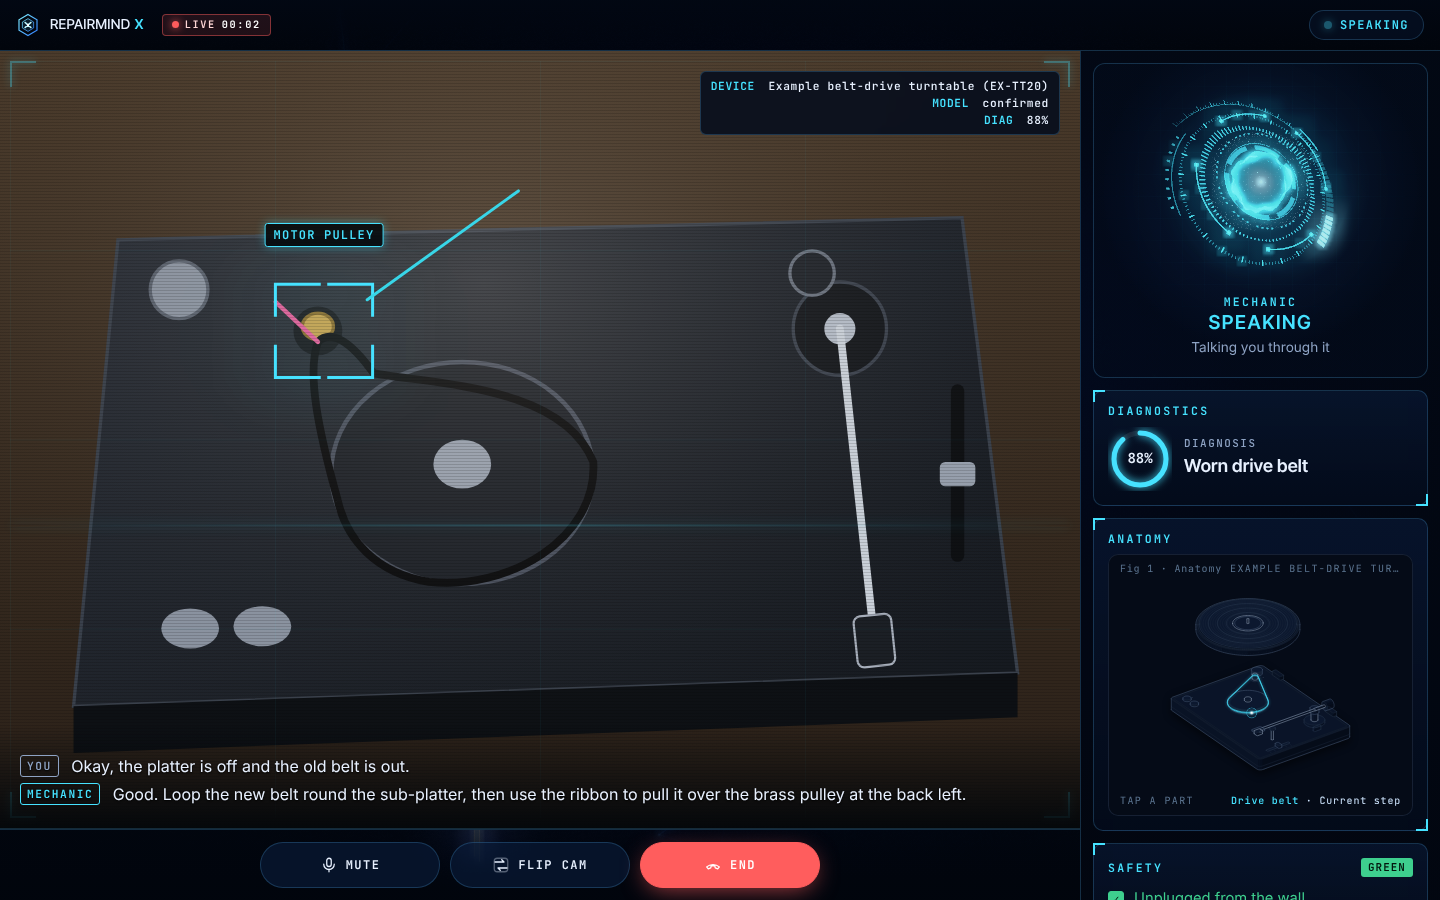
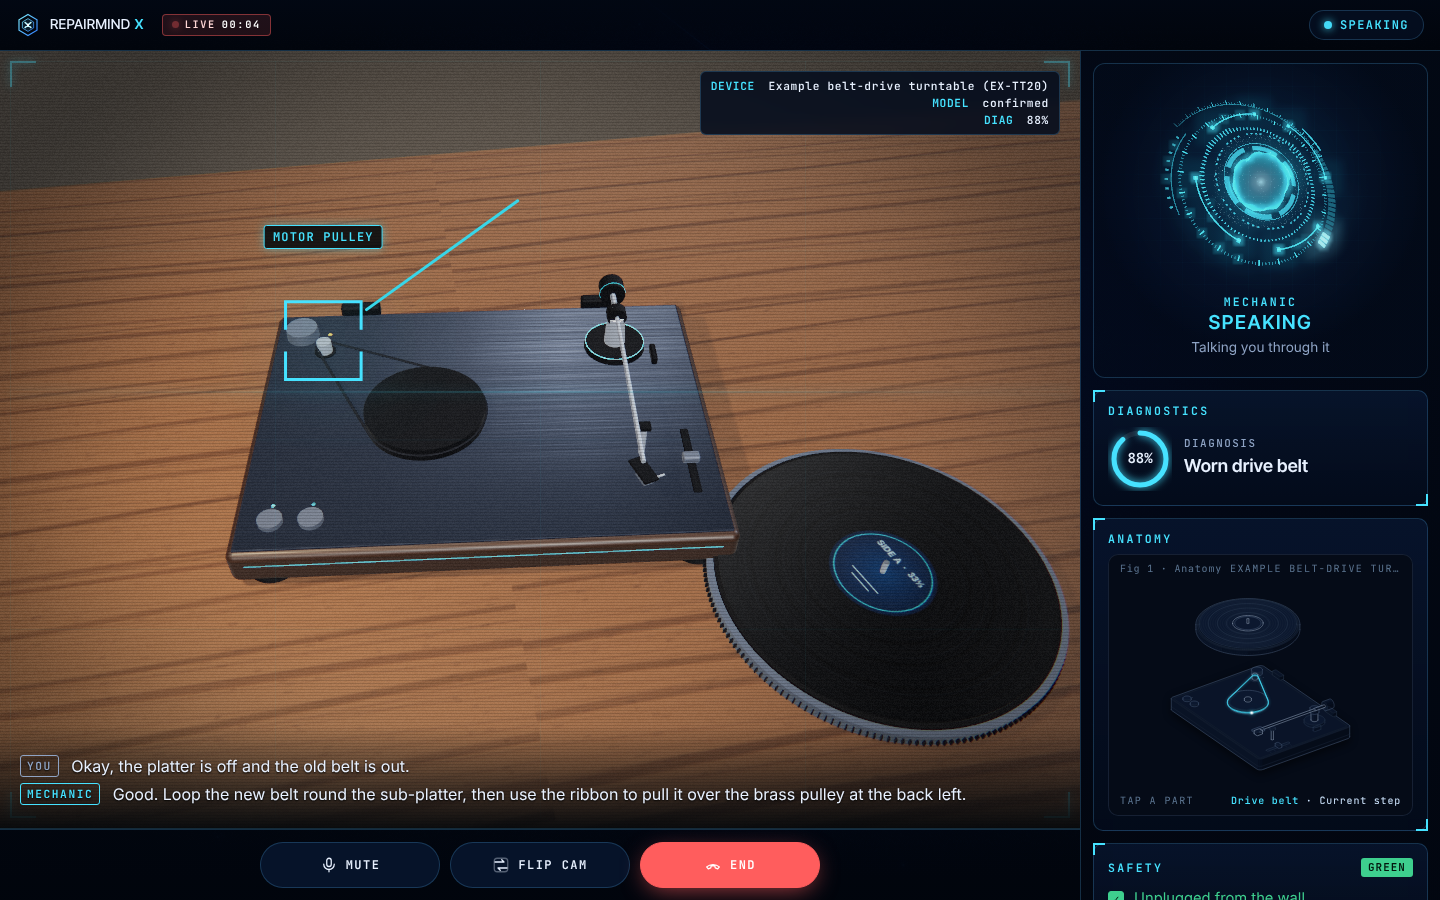
Show the call screen as a realistic 3D camera view
Replace the flat drawing on the #demo call screen with the 3D record player on an
oak desk under a warm lamp, with soft shadows, a walnut plinth, the platter lifted
off beside it and a handheld camera drift. The AR marker now follows the motor
pulley's projected position every frame.

Claude-Session: https://claude.ai/code/session_01XgJJfW6a7WrSLbWpMDcCof

diff --git a/web/src/fx/showroom/CameraView.ts b/web/src/fx/showroom/CameraView.ts
@@ -1,0 +1,160 @@
+import * as THREE from "three";
+import { RoomEnvironment } from "three/examples/jsm/environments/RoomEnvironment.js";
+import { createStage, perfGuard, type Stage } from "../gl/core";
+import { buildDeck, type DeckModel } from "./turntable";
+import { makeFxUniforms } from "./fx";
+
+/**
+ * A stand-in for the phone camera on the #demo call screen: the same record player as the start page,
+ * rendered as a real scene rather than a drawing. It sits on an oak desk under a warm lamp, mid-repair,
+ * with the platter lifted off and set down beside it so the belt and motor pulley show. The camera is
+ * handheld: it breathes and drifts a little, with a touch of sensor noise. The motor pulley's position on
+ * screen is reported every frame so the AR marker can follow it.
+ */
+
+function woodTexture(base: string, dark: string, w = 1024, h = 1024, rings = 46) {
+  const c = document.createElement("canvas");
+  c.width = w;
+  c.height = h;
+  const g = c.getContext("2d")!;
+  g.fillStyle = base;
+  g.fillRect(0, 0, w, h);
+  // long grain lines that wander a little, with darker latewood bands
+  for (let i = 0; i < rings * 6; i++) {
+    const y0 = (i / (rings * 6)) * h + (Math.random() - 0.5) * 6;
+    const band = i % 6 === 0;
+    g.strokeStyle = band ? dark : `rgba(0,0,0,${0.03 + Math.random() * 0.05})`;
+    g.globalAlpha = band ? 0.22 + Math.random() * 0.18 : 1;
+    g.lineWidth = band ? 2 + Math.random() * 3 : 1;
+    g.beginPath();
+    for (let x = 0; x <= w; x += 16) {
+      const y = y0 + Math.sin(x * 0.004 + i * 0.7) * 6 + Math.sin(x * 0.013 + i) * 2;
+      if (x === 0) g.moveTo(x, y);
+      else g.lineTo(x, y);
+    }
+    g.stroke();
+  }
+  g.globalAlpha = 1;
+  // pores
+  for (let i = 0; i < 9000; i++) {
+    g.fillStyle = `rgba(0,0,0,${Math.random() * 0.12})`;
+    g.fillRect(Math.random() * w, Math.random() * h, 2 + Math.random() * 4, 1);
+  }
+  const t = new THREE.CanvasTexture(c);
+  t.colorSpace = THREE.SRGBColorSpace;
+  t.wrapS = t.wrapT = THREE.RepeatWrapping;
+  t.anisotropy = 8;
+  return t;
+}
+
+export class CameraView {
+  private stage: Stage;
+  private deck: DeckModel;
+  private raf = 0;
+  private t0 = performance.now();
+  private v = new THREE.Vector3();
+  private guard = perfGuard(22, () => this.stage.setPixelRatio(1));
+  private ro: ResizeObserver;
+
+  constructor(private canvas: HTMLCanvasElement, private onPin?: (x: number, y: number) => void) {
+    this.stage = createStage({
+      canvas,
+      fov: 46,
+      pixelRatio: Math.min(window.devicePixelRatio || 1, 1.5),
+      bloom: { strength: 0.18, radius: 0.4, threshold: 0.92 },
+      grade: { vignette: 0.35, grain: 0.045, aberration: 0.0004, lift: [0.004, 0.004, 0.006] },
+    });
+    const { renderer, scene } = this.stage;
+    renderer.toneMapping = THREE.ACESFilmicToneMapping;
+    renderer.toneMappingExposure = 1.0;
+    renderer.shadowMap.enabled = true;
+    renderer.shadowMap.type = THREE.PCFSoftShadowMap;
+    renderer.setClearColor(0x16130f, 1);
+
+    const pmrem = new THREE.PMREMGenerator(renderer);
+    scene.environment = pmrem.fromScene(new RoomEnvironment(), 0.03).texture;
+    scene.environmentIntensity = 0.55;
+    pmrem.dispose();
+
+    // a warm desk lamp up and to the left, a cool window fill from the right, and a soft bounce
+    const lamp = new THREE.SpotLight(0xffe2bf, 60, 30, 0.8, 0.7, 1.6);
+    lamp.position.set(-4.5, 7, 3);
+    lamp.target.position.set(0, 0, 0);
+    lamp.castShadow = true;
+    lamp.shadow.mapSize.set(2048, 2048);
+    lamp.shadow.bias = -0.0004;
+    lamp.shadow.radius = 4;
+    const win = new THREE.DirectionalLight(0xbfd6ff, 0.6);
+    win.position.set(8, 4, -2);
+    scene.add(lamp, lamp.target, win, new THREE.HemisphereLight(0xfff1de, 0x2a1f14, 0.35));
+
+    // oak desk and a plain wall behind it
+    const oak = woodTexture("#7a5233", "#3a2210");
+    oak.repeat.set(2, 1);
+    const desk = new THREE.Mesh(
+      new THREE.PlaneGeometry(30, 18),
+      new THREE.MeshPhysicalMaterial({ map: oak, roughness: 0.55, clearcoat: 0.3, clearcoatRoughness: 0.4 }),
+    );
+    desk.rotation.x = -Math.PI / 2;
+    desk.receiveShadow = true;
+    scene.add(desk);
+    const wall = new THREE.Mesh(new THREE.PlaneGeometry(40, 16), new THREE.MeshStandardMaterial({ color: 0x5b5650, roughness: 0.95 }));
+    wall.position.set(0, 8, -6);
+    scene.add(wall);
+
+    // the record player, mid-repair: platter lifted off and set down on the desk beside it
+    this.deck = buildDeck(makeFxUniforms());
+    const walnut = woodTexture("#3b2414", "#170c05");
+    this.deck.plinth.material = new THREE.MeshPhysicalMaterial({ map: walnut, roughness: 0.45, clearcoat: 0.6, clearcoatRoughness: 0.25 });
+    this.deck.accents.forEach((m) => m.color.multiplyScalar(1.4));
+    this.deck.root.traverse((o) => {
+      if ((o as THREE.Mesh).isMesh) {
+        o.castShadow = true;
+        o.receiveShadow = true;
+      }
+    });
+    this.deck.platter.position.set(3.4, 0.09, 1.9);
+    this.deck.platter.rotation.set(0, 0.4, 0);
+    this.deck.root.rotation.y = -0.12;
+    scene.add(this.deck.root);
+
+    this.ro = new ResizeObserver(() => this.resize());
+    this.ro.observe(canvas);
+    this.resize();
+    this.loop = this.loop.bind(this);
+    this.raf = requestAnimationFrame(this.loop);
+  }
+
+  private resize() {
+    const w = this.canvas.clientWidth || 640, h = this.canvas.clientHeight || 480;
+    this.stage.resize(w, h);
+  }
+
+  private loop(now: number) {
+    this.raf = requestAnimationFrame(this.loop);
+    this.guard(now);
+    const t = (now - this.t0) / 1000;
+    const cam = this.stage.camera;
+    // handheld: a slow drift plus a small, uneven breathing sway
+    const sway = (a: number, b: number) => Math.sin(t * a) * 0.6 + Math.sin(t * b + 1.3) * 0.4;
+    const portrait = this.canvas.clientHeight > this.canvas.clientWidth;
+    const d = portrait ? 1.35 : 1;
+    cam.position.set(-0.6 + sway(0.31, 0.83) * 0.06, 6.6 * d + sway(0.27, 0.71) * 0.05, 6.4 * d + sway(0.23, 0.61) * 0.05);
+    cam.lookAt(0.5 + sway(0.4, 1.1) * 0.03, 0.3, 0.3 + sway(0.37, 0.9) * 0.03);
+    cam.rotateZ(sway(0.2, 0.55) * 0.008);
+    this.stage.render(t);
+
+    if (this.onPin) {
+      this.deck.anchors.pulley.getWorldPosition(this.v);
+      this.v.project(cam);
+      this.onPin(this.v.x * 0.5 + 0.5, -this.v.y * 0.5 + 0.5);
+    }
+  }
+
+  dispose() {
+    cancelAnimationFrame(this.raf);
+    this.ro.disconnect();
+    this.stage.scene.environment?.dispose();
+    this.stage.dispose();
+  }
+}

diff --git a/web/src/Demo.tsx b/web/src/Demo.tsx
@@ -1,4 +1,5 @@
-import { useEffect, useMemo, useState } from "react";
+import { useCallback, useEffect, useMemo, useRef, useState } from "react";
+import { CameraView } from "./fx/showroom/CameraView";
 import { CallHud, MarkerOverlay } from "./hud/CallHud";
 import type { OrbState } from "./hud/VoiceOrb";
 import { makeDemoVoice } from "./fx/demoVoice";
@@ -51,6 +52,11 @@ export function Demo() {
   }, [phase, fixed]);
   const orbState = fixed ?? CYCLE[phase].state;
   const [alertOpen, setAlertOpen] = useState(variant === "alert");
+  // the AR marker follows the motor pulley as the handheld camera moves
+  const [pin, setPin] = useState({ x: 0.3, y: 0.36 });
+  const onPin = useCallback((x: number, y: number) => {
+    setPin((p) => (Math.abs(p.x - x) + Math.abs(p.y - y) < 0.002 ? p : { x, y }));
+  }, []);
 
   const view: SessionView =
     variant === "amber"
@@ -70,11 +76,11 @@ export function Demo() {
         { who: "You", text: "Okay, the platter is off and the old belt is out." },
         { who: "Mechanic", text: "Good. Loop the new belt round the sub-platter, then use the ribbon to pull it over the brass pulley at the back left." },
       ]}
-      camera={<DemoCamera />}
+      camera={<DemoCamera onPin={onPin} />}
       overlay={
         <div className="demo-ar">
-          <MarkerOverlay m={{ x: 0.3, y: 0.36, w: 0.09, h: 0.12, label: "motor pulley" }} />
-          <span className="ar-label demo-ar-label" style={{ left: "30%", top: "26%" }}>MOTOR PULLEY</span>
+          <MarkerOverlay m={{ x: pin.x, y: pin.y, w: 0.07, h: 0.1, label: "motor pulley" }} />
+          <span className="ar-label demo-ar-label" style={{ left: `${pin.x * 100}%`, top: `${(pin.y - 0.11) * 100}%` }}>MOTOR PULLEY</span>
         </div>
       }
       frozen={null}
@@ -89,43 +95,20 @@ export function Demo() {
   );
 }
 
-/** A drawn stand-in for the camera feed: a record player on a desk with its platter off. */
-function DemoCamera() {
-  return (
-    <svg className="demo-cam" viewBox="0 0 1000 700" preserveAspectRatio="xMidYMid slice" aria-label="Sample camera view of a record player with the platter off">
-      <defs>
-        <linearGradient id="dc-desk" x1="0" y1="0" x2="0" y2="1">
-          <stop offset="0" stopColor="#4a3a2a" /><stop offset="1" stopColor="#2a2018" />
-        </linearGradient>
-        <linearGradient id="dc-deck" x1="0" y1="0" x2="1" y2="1">
-          <stop offset="0" stopColor="#2a2f38" /><stop offset="1" stopColor="#15191f" />
-        </linearGradient>
-        <radialGradient id="dc-light" cx="0.45" cy="0.3" r="0.7">
-          <stop offset="0" stopColor="rgba(255,240,220,.16)" /><stop offset="1" stopColor="rgba(0,0,0,0)" />
-        </radialGradient>
-      </defs>
-      <rect width="1000" height="700" fill="url(#dc-desk)" />
-      {/* plinth seen from above and in front */}
-      <path d="M120 170 L880 150 L930 560 L80 590 Z" fill="url(#dc-deck)" stroke="#3a414c" strokeWidth="3" />
-      <path d="M80 590 L930 560 L930 600 L80 632 Z" fill="#0d1014" />
-      {/* motor pulley (back left) and power knob */}
-      <circle cx="300" cy="252" r="22" fill="#121418" />
-      <ellipse cx="300" cy="248" rx="14" ry="12" fill="#c9a24a" stroke="#8a6b26" strokeWidth="3" />
-      <circle cx="175" cy="215" r="26" fill="#8d96a4" stroke="#5b6370" strokeWidth="3" />
-      {/* sub-platter with the new belt on it, pulled toward the pulley */}
-      <ellipse cx="430" cy="380" rx="118" ry="100" fill="#1d2128" stroke="#4b5260" strokeWidth="4" />
-      <ellipse cx="430" cy="372" rx="26" ry="22" fill="#9aa3b1" />
-      <path d="M318 405 C 300 340 290 290 300 262 C 312 250 330 262 350 290 C 400 300 520 300 548 370 C 552 440 470 486 400 478 C 352 470 326 440 318 405" fill="none" stroke="#0a0b0d" strokeWidth="7" />
-      <path d="M300 262 L 262 226" stroke="#e85c9a" strokeWidth="4" strokeLinecap="round" />
-      {/* tonearm clipped in its rest, speed buttons, pitch slider */}
-      <circle cx="770" cy="250" r="42" fill="#15181d" stroke="#3d4450" strokeWidth="3" />
-      <circle cx="770" cy="250" r="14" fill="#b8c0cc" />
-      <path d="M770 250 L 800 520" stroke="#cfd6df" strokeWidth="7" strokeLinecap="round" />
-      <rect x="784" y="508" width="34" height="46" rx="6" fill="#1b1f25" stroke="#aab2bf" strokeWidth="2" transform="rotate(-6 800 530)" />
-      <circle cx="745" cy="200" r="20" fill="#20242b" stroke="#6b7380" strokeWidth="3" />
-      <ellipse cx="185" cy="520" rx="26" ry="18" fill="#8d96a4" /><ellipse cx="250" cy="518" rx="26" ry="18" fill="#8d96a4" />
-      <rect x="870" y="300" width="12" height="160" rx="6" fill="#0d0f12" /><rect x="860" y="370" width="32" height="22" rx="5" fill="#9aa3b1" />
-      <rect width="1000" height="700" fill="url(#dc-light)" />
-    </svg>
-  );
+/** The camera feed stand-in: the record player rendered in 3D as if seen through a phone (./fx/showroom/CameraView). */
+function DemoCamera({ onPin }: { onPin: (x: number, y: number) => void }) {
+  const ref = useRef<HTMLCanvasElement>(null);
+  const pin = useRef(onPin);
+  pin.current = onPin;
+  useEffect(() => {
+    if (!ref.current) return;
+    let view: CameraView | null = null;
+    try {
+      view = new CameraView(ref.current, (x, y) => pin.current(x, y));
+    } catch {
+      /* no WebGL: the call screen still works without the picture */
+    }
+    return () => view?.dispose();
+  }, []);
+  return <canvas ref={ref} className="demo-cam" role="img" aria-label="Sample camera view: a record player on a desk with its platter lifted off, showing the belt and motor pulley" />;
 }

diff --git a/web/src/fx/showroom/turntable.ts b/web/src/fx/showroom/turntable.ts
@@ -16,6 +16,7 @@ export interface DeckModel {
   arm: THREE.Group; // swings between rest and the record
   anchors: Record<string, THREE.Object3D>;
   highlight: THREE.MeshPhysicalMaterial; // the drive belt: glows when it is the part being worked on
+  plinth: THREE.Mesh; // the cabinet, so a scene can give it a different finish
   accents: THREE.MeshBasicMaterial[];
 }
 
@@ -315,5 +316,5 @@ export function buildDeck(fx: FxUniforms): DeckModel {
   anchor(root, "speed", -1.68, TOP + 0.06, FRONT, anchors);
   anchor(root, "model", 0.3, TOP + 0.55, -1.1, anchors);
 
-  return { root, spin, platter, arm, anchors, highlight, accents: [accent, accentSoft, amber] };
+  return { root, spin, platter, arm, anchors, highlight, plinth, accents: [accent, accentSoft, amber] };
 }
